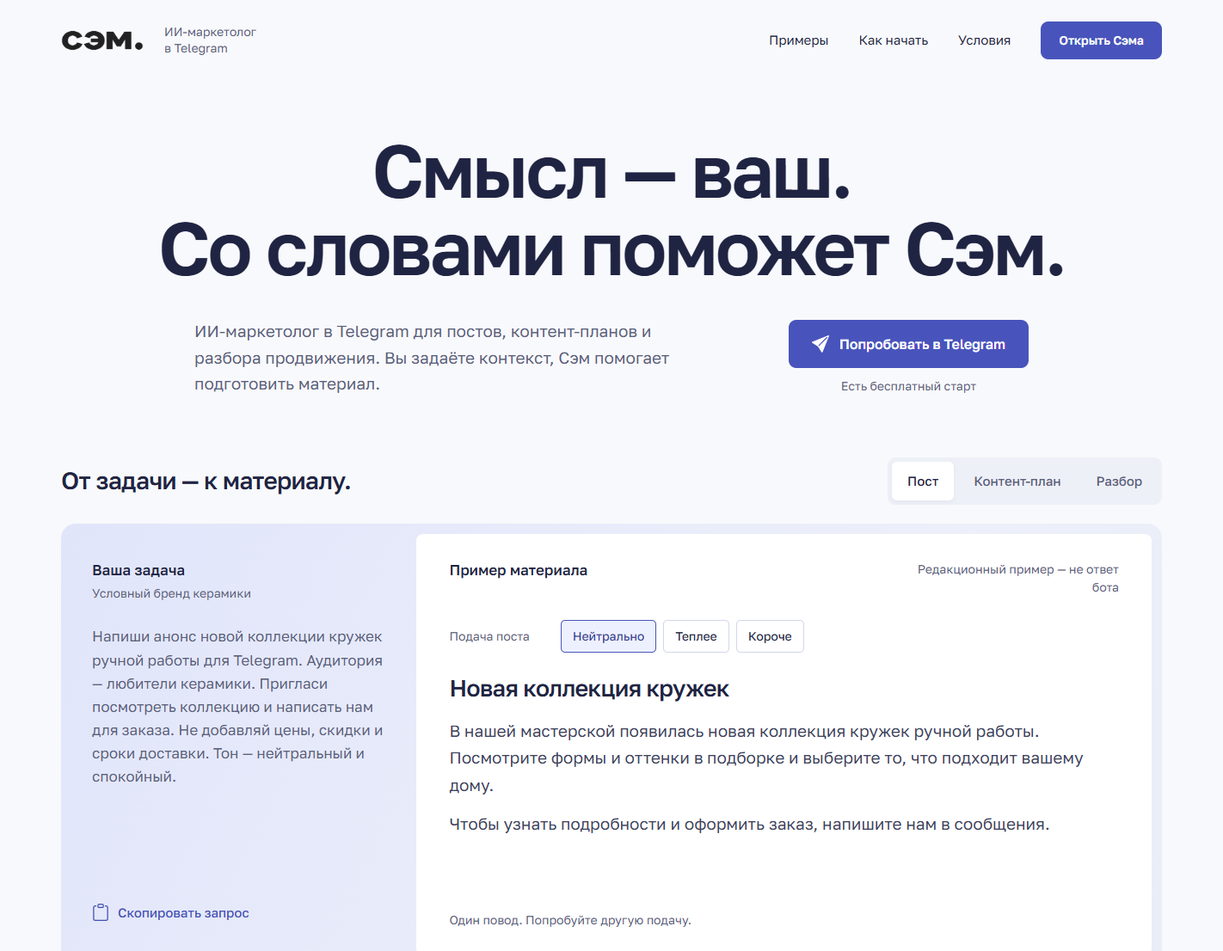
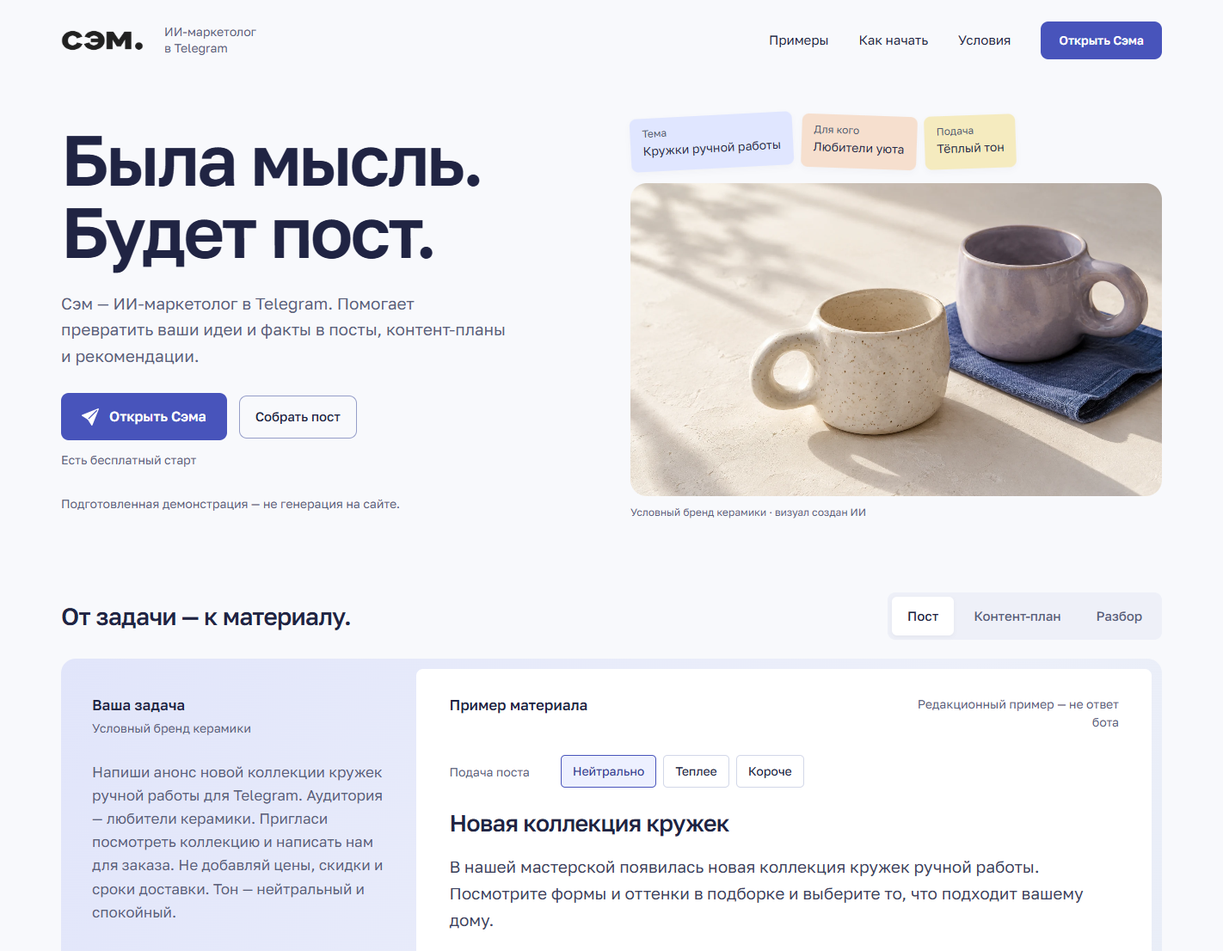
Bring Sam preview to life with contextual photo and assembly motion

diff --git a/dist/frontend-design/index.html b/dist/frontend-design/index.html
@@ -1,9 +1,9 @@
 <!doctype html>
 <html lang="ru">
-<head><meta charset="utf-8"><meta name="viewport" content="width=device-width,initial-scale=1,viewport-fit=cover"><title>Сэм — смысл ваш, со словами поможем</title><meta name="description" content="ИИ-маркетолог в Telegram. Посты, контент-планы и разбор продвижения на основе вашей задачи."><meta name="robots" content="noindex, follow"><meta name="theme-color" content="#f8f9fc"><link rel="canonical" href="https://marketolog-sam.ru/"><link rel="icon" href="../images/favicon-32.png" sizes="32x32"><link rel="preload" href="fonts/golos-text.ttf" as="font" type="font/ttf" crossorigin><link rel="stylesheet" href="styles.css"><script src="../site-config.js" defer></script><script src="script.js" defer></script></head>
+<head><meta charset="utf-8"><meta name="viewport" content="width=device-width,initial-scale=1,viewport-fit=cover"><title>Сэм — от вашей мысли до первого поста</title><meta name="description" content="ИИ-маркетолог в Telegram. Посты, контент-планы и разбор продвижения на основе вашей задачи."><meta name="robots" content="noindex, follow"><meta name="theme-color" content="#f8f9fc"><link rel="canonical" href="https://marketolog-sam.ru/"><link rel="icon" href="../images/favicon-32.png" sizes="32x32"><link rel="preload" href="fonts/golos-text.ttf" as="font" type="font/ttf" crossorigin><link rel="stylesheet" href="styles.css?v=living-1"><script src="../site-config.js" defer></script><script src="script.js?v=living-1" defer></script></head>
 <body id="top"><a class="skip-link" href="#main-content">Перейти к содержимому</a>
 <header class="header"><div class="shell header-inner"><a class="brand" href="#top" aria-label="Сэм — на главную"><img class="wordmark" src="../assets/plates/brand.png" width="96" height="30" alt="Сэм"></a><span class="brand-description">ИИ-маркетолог<br>в Telegram</span><button class="menu-toggle" id="navToggle" type="button" aria-expanded="false" aria-controls="primaryNav" aria-label="Открыть меню"><img class="icon" src="../icons/list.svg" width="20" height="20" alt=""></button><nav id="primaryNav" aria-label="Основная навигация"><a href="#examples">Примеры</a><a href="#how-it-works">Как начать</a><a href="#pricing">Условия</a><a class="button button--primary js-open-bot button--small" data-placement="frontend-header" href="https://t.me/smm_platform_sam_bot?start=landing" target="_blank" rel="noopener noreferrer"><span>Открыть Сэма</span></a></nav></div></header>
-<main id="main-content"><section class="hero shell" id="hero" aria-labelledby="hero-title"><h1 id="hero-title"><span>Смысл — ваш.</span><span>Со словами поможет Сэм.</span></h1><div class="hero-bottom"><p class="lead">ИИ-маркетолог в Telegram для постов, контент-планов и разбора продвижения. Вы задаёте контекст, Сэм помогает подготовить материал.</p><div class="hero-actions"><a class="button button--primary js-open-bot " data-placement="frontend-hero" href="https://t.me/smm_platform_sam_bot?start=landing" target="_blank" rel="noopener noreferrer"><img class="icon" src="../icons/send-fill.svg" width="20" height="20" alt=""><span>Попробовать в Telegram</span></a><p>Есть бесплатный старт</p></div></div></section>
+<main id="main-content"><section class="hero shell hero--living" id="hero" aria-labelledby="hero-title"><div class="hero-grid"><div class="hero-copy"><h1 id="hero-title"><span>Была мысль.</span><span>Будет пост.</span></h1><p class="lead">Сэм — ИИ-маркетолог в Telegram. Помогает превратить ваши идеи и факты в посты, контент-планы и рекомендации.</p><div class="hero-actions"><a class="button button--primary js-open-bot" data-placement="frontend-hero" href="https://t.me/smm_platform_sam_bot?start=landing" target="_blank" rel="noopener noreferrer" aria-label="Открыть Сэма в Telegram"><img class="icon" src="../icons/send-fill.svg" width="20" height="20" alt=""><span>Открыть Сэма</span></a><button class="assemble-button" id="assemble-post" type="button" aria-expanded="false" aria-controls="assembled-post">Собрать пост</button></div><p class="hero-assurance">Есть бесплатный старт</p><p class="hero-scene-note">Подготовленная демонстрация — не генерация на сайте.</p></div><div class="brief-scene" id="brief-scene"><ul class="source-facts" aria-label="Детали запроса"><li class="source-topic" data-source="topic"><span>Тема</span>Кружки ручной работы</li><li class="source-audience" data-source="audience"><span>Для кого</span>Любители уюта</li><li class="source-voice" data-source="voice"><span>Подача</span>Тёплый тон</li></ul><figure class="scene-photo"><img id="ceramics-scene" src="images/ceramics-editorial.webp" width="1536" height="1024" alt="Две кружки ручной работы, белая и лавандовая, на светлом столе с синей льняной тканью. Визуал создан ИИ для условного бренда." fetchpriority="high"><figcaption>Условный бренд керамики · визуал создан ИИ</figcaption></figure><article class="assembly-post" id="assembled-post" aria-labelledby="assembled-title" hidden><h2 id="assembled-title">Кружка для вашего утра</h2><p>Новая <mark data-source="topic">коллекция кружек ручной работы</mark> — <mark data-source="audience">для уютных утренних ритуалов</mark>.</p><p><mark data-source="voice">Приглянулась одна?</mark> Напишите нам, чтобы узнать подробности и заказать.</p><p class="assembly-provenance">Редакционный пример — не ответ бота</p></article><p class="scene-status sr-only" id="assembly-status" role="status"></p></div></div></section>
 <section class="demo shell" id="examples" aria-labelledby="examples-title"><div class="demo-top"><h2 id="examples-title">От задачи — к материалу.</h2><div class="demo-tabs" role="tablist" aria-label="Примеры задач"><button id="tab-post" role="tab" aria-selected="true" aria-controls="demo-panel" data-example="post" type="button">Пост</button><button id="tab-plan" role="tab" aria-selected="false" aria-controls="demo-panel" data-example="plan" tabindex="-1" type="button">Контент-план</button><button id="tab-audit" role="tab" aria-selected="false" aria-controls="demo-panel" data-example="audit" tabindex="-1" type="button">Разбор</button></div></div><div class="working-field"><div id="demo-panel" class="demo-panel" role="tabpanel" aria-labelledby="tab-post" tabindex="0"><div class="request-column"><div><h3>Ваша задача</h3><p class="sample-business">Условный бренд керамики</p></div><p id="demo-prompt">Напиши анонс новой коллекции кружек ручной работы для Telegram. Аудитория — любители керамики. Пригласи посмотреть коллекцию и написать нам для заказа. Не добавляй цены, скидки и сроки доставки. Тон — нейтральный и спокойный.</p><button id="copy-prompt" class="copy-button" type="button"><img class="icon" src="../icons/clipboard.svg" width="20" height="20" alt=""><span>Скопировать запрос</span></button><p class="copy-status" role="status"></p></div><div class="result-column"><div class="result-heading"><h3>Пример материала</h3><p>Редакционный пример — не ответ бота</p></div><fieldset class="tone-controls" id="tone-controls"><legend>Подача поста</legend><div><button type="button" data-tone="neutral" aria-pressed="true">Нейтрально</button><button type="button" data-tone="warm" aria-pressed="false">Теплее</button><button type="button" data-tone="short" aria-pressed="false">Короче</button></div></fieldset><div class="result-surface" id="demo-output"><h3>Новая коллекция кружек</h3><p>В нашей мастерской появилась новая коллекция кружек ручной работы. Посмотрите формы и оттенки в подборке и выберите то, что подходит вашему дому.</p><p>Чтобы узнать подробности и оформить заказ, напишите нам в сообщения.</p></div><p class="tone-note" id="tone-note">Один повод. Попробуйте другую подачу.</p></div></div></div><p class="demo-disclosure">Это подготовленные варианты для сравнения. Сэм работает с вашим запросом в Telegram.</p><p id="demo-status" class="sr-only" role="status"></p></section>
 <section class="capabilities shell" id="content" aria-labelledby="content-title"><div class="section-intro"><h2 id="content-title">Когда нужно<br>с чего-то начать.</h2><p>Не обязательно приходить с готовым текстом.<br>Достаточно задачи и нескольких деталей о вашем деле.</p></div><div class="task-list"><button type="button" data-show-example="post"><span>Написать пост</span><small>Тема, аудитория и нужный тон.<br>Отредактируйте предложенный текст под себя.</small><span class="task-action">Смотреть пример</span></button><button type="button" data-show-example="plan"><span>Найти темы</span><small>Цель, формат и период.<br>Получите отправную точку для контент-плана.</small><span class="task-action">Смотреть пример</span></button><button type="button" data-show-example="audit"><span>Разобраться с продвижением</span><small>Ссылка и контекст.<br>Посмотрите, что можно уточнить и улучшить.</small><span class="task-action">Смотреть пример</span></button></div></section>
 <section class="how section shell" id="how-it-works" aria-labelledby="how-title"><div class="section-intro"><h2 id="how-title">Всё происходит в Telegram.</h2><p>На телефоне или компьютере.<br>Без отдельного приложения для Сэма.</p></div><ol class="how-list"><li><h3>Откройте Сэма</h3><p>Перейдите в Telegram и нажмите «Начать». Выберите подходящий инструмент в меню бота.</p></li><li><h3>Добавьте контекст</h3><p>Расскажите о бизнесе, аудитории и цели. Укажите факты, формат и тон, которые нужно сохранить.</p></li><li><h3>Доработайте материал</h3><p>Проверьте факты и рекомендации. Добавьте свой опыт, отредактируйте текст и используйте его в работе.</p></li></ol><details class="interface-preview"><summary>Посмотреть настоящее меню бота <img class="icon" src="../icons/arrow-right.svg" width="20" height="20" alt=""></summary><div class="screenshots"><button class="screenshot-card" type="button" data-full-image="../images/bot-screen-1.png" data-image-alt="Настоящее меню бота Сэм в Telegram"><img src="../images/bot-screen-1.png" width="418" height="1080" loading="lazy" alt="Настоящее меню бота Сэм в Telegram"><span>Главное меню · увеличить</span></button><button class="screenshot-card" type="button" data-full-image="../images/bot-screen-2.png" data-image-alt="Раздел инструментов бота Сэм в Telegram"><img src="../images/bot-screen-2.png" width="418" height="1080" loading="lazy" alt="Раздел инструментов бота Сэм в Telegram"><span>Инструменты · увеличить</span></button></div></details></section><section class="terms section" id="pricing" aria-labelledby="pricing-title"><div class="shell terms-grid"><div><h2 id="pricing-title">Начните с одной задачи.</h2><p>У Сэма есть бесплатный старт. Посмотрите доступные инструменты и попробуйте на своём проекте.</p><a class="button button--primary js-open-bot" data-placement="pricing" href="https://t.me/smm_platform_sam_bot?start=landing" target="_blank" rel="noopener noreferrer"><img class="icon" src="../icons/send-fill.svg" width="20" height="20" alt=""><span>Попробовать в Telegram</span></a></div><div id="pricing-content"><h3>Условия — прямо в боте</h3><p>Актуальные цены, лимиты и условия продления проверьте в разделе тарифов перед оплатой.</p><a class="text-link js-open-bot" data-placement="tariffs" href="https://t.me/smm_platform_sam_bot?start=cmd_run_3318292060" target="_blank" rel="noopener noreferrer">Открыть тарифы <img class="icon" src="../icons/arrow-right.svg" width="20" height="20" alt=""></a><p class="terms-links"><a href="../offer.html#o4">Оплата и возврат</a><a href="../privacy.html">Обработка данных</a></p></div></div></section><section class="faq section shell" id="faq" aria-labelledby="faq-title"><div class="faq-grid"><h2 id="faq-title">О Сэме и доступе.</h2><div class="faq-list"><details class="faq-item"><summary>Как начать и что бесплатно?</summary><p>Откройте бота в Telegram и нажмите «Начать». Бесплатный старт предусмотрен; актуальное количество запросов и доступные инструменты проверяйте в разделе тарифов. <a href="#pricing">Перейти к условиям</a>.</p></details><details class="faq-item"><summary>Как получить более полезный результат?</summary><p>Опишите нишу, аудиторию, цель и формат. Для текста укажите тон и факты, которые нужно использовать. Для разбора страницы приложите ссылку и контекст. Проверьте рекомендации и факты перед применением.</p></details><details class="faq-item"><summary>Что происходит с моими данными?</summary><p>Согласно <a href="../privacy.html#s2">политике конфиденциальности</a>, сервис может обрабатывать ваш Telegram-идентификатор и сообщения для работы бота; в обработке участвуют Telegram и поставщики инфраструктуры. <a href="../privacy.html#s7">Сроки хранения</a> и <a href="../privacy.html#s9">порядок отзыва согласия</a> описаны в политике. Для запроса об удалении данных напишите <a href="mailto:support.marketolog.sam@gmail.com?subject=Запрос%20об%20удалении%20данных">в поддержку</a>.</p></details><details class="faq-item"><summary>Как прекратить платный доступ или запросить возврат?</summary><p>Вопросы управления тарифом решаются в боте. Условия оплаты и возврата приведены в <a href="../offer.html#o4">оферте</a>. Для отказа от оплаченного тарифа или запроса возврата обратитесь в <a href="mailto:support.marketolog.sam@gmail.com?subject=Вопрос%20по%20платному%20доступу">поддержку</a>. Условия продления выбранного тарифа проверьте до оплаты.</p></details><details class="faq-item"><summary>Нужна отдельная установка?</summary><p>Нет, достаточно Telegram на телефоне или компьютере. Сайт откроет страницу <a href="https://t.me/smm_platform_sam_bot" target="_blank" rel="noopener noreferrer">@smm_platform_sam_bot</a>, где нужно нажать «Начать».</p></details><details class="faq-item"><summary>Сэм заменит маркетолога?</summary><p>Он помогает подготовить материалы и рекомендации. Вы определяете стратегию, проверяете точность результата и решаете, как использовать его в своём бизнесе.</p></details><details class="faq-item"><summary>Telegram не открылся или бот не отвечает?</summary><p>Попробуйте открыть <a href="https://t.me/smm_platform_sam_bot" target="_blank" rel="noopener noreferrer">прямую ссылку на бота</a> или найдите @smm_platform_sam_bot в Telegram. Если бот не отвечает, повторите запрос позже. При повторной ошибке напишите в <a href="mailto:support.marketolog.sam@gmail.com">поддержку</a>.</p></details></div></div></section><section class="final section" aria-labelledby="final-title"><div class="shell final-inner"><h2 id="final-title">Начните с того,<br>что хотите сказать.</h2><div><p>Расскажите Сэму о своём деле и первой задаче.</p><a class="button button--primary js-open-bot " data-placement="frontend-final" href="https://t.me/smm_platform_sam_bot?start=landing" target="_blank" rel="noopener noreferrer"><img class="icon" src="../icons/send-fill.svg" width="20" height="20" alt=""><span>Попробовать в Telegram</span></a></div></div></section></main>

diff --git a/dist/frontend-design/styles.css b/dist/frontend-design/styles.css
@@ -278,3 +278,44 @@ h2{font-size:35px;line-height:1.12}
 }
 
 .result-heading p{font-size:14px}@media(max-width:760px){.brand-description{font-size:14px}.tone-controls button{font-size:14px}}@media(max-width:360px){.tone-controls button{font-size:14px;padding-inline:8px}}
+
+/* One physical scene explains the editorial transformation. */
+.hero--living{padding-top:40px;padding-bottom:58px}
+.hero-grid{display:grid;grid-template-columns:1fr 1.08fr;gap:7%;align-items:center}
+.hero--living h1{text-align:left;font-size:clamp(58px,5.8vw,84px);line-height:1.02;letter-spacing:-.035em}
+.hero--living h1 span{display:block}
+.hero--living .lead{margin-top:27px;font-size:19px;line-height:1.6;max-width:44ch}
+.hero--living .hero-actions{display:flex;gap:14px;align-items:center;margin-top:28px;flex-wrap:wrap}
+.hero--living .hero-actions>.button{min-height:54px;padding-inline:23px}
+.assemble-button{min-height:50px;border:1px solid #959dc8;background:transparent;border-radius:9px;padding:13px 18px;font-size:15px;font-weight:500;line-height:1.3;transition:background .18s,border-color .18s}
+.assemble-button:hover{background:#e8ebfa;border-color:var(--action)}
+.hero-assurance{font-size:14px;margin-top:12px}
+.hero-scene-note{font-size:14px;line-height:1.55;max-width:47ch;margin-top:29px}
+.brief-scene{position:relative;min-width:0;align-self:center}
+.source-facts{display:flex;align-items:flex-start;flex-wrap:wrap;gap:10px;list-style:none;padding:0;margin:0 0 17px}
+.source-facts li{display:flex;flex-direction:column;gap:3px;min-height:62px;padding:10px 14px;border-radius:8px;font-size:14px;line-height:1.35;color:#292d49;box-shadow:0 3px 7px #22264408}
+.source-facts li>span{font-size:12px;color:#535a71}
+.source-topic{background:#e0e6ff;transform:rotate(-3deg)}
+.source-audience{background:#f6dfce;transform:rotate(2deg)}
+.source-voice{background:#f5ebbf;transform:rotate(-2deg)}
+.scene-photo{margin:0;position:relative}
+.scene-photo>img{display:block;width:100%;height:364px;object-fit:cover;border-radius:19px;transition:filter .4s,opacity .4s}
+.scene-photo>figcaption{font-size:12px;line-height:1.5;margin-top:10px;color:var(--muted)}
+.assembly-post{position:absolute;left:22px;right:22px;bottom:48px;background:#fff;padding:25px 28px;border-radius:12px;box-shadow:0 14px 38px #20244326}
+.assembly-post h2{font-size:26px;font-weight:550;line-height:1.2;letter-spacing:-.02em;margin-bottom:16px}
+.assembly-post>p{font-size:17px;line-height:1.6;color:#40465f;margin-top:12px}
+.assembly-post mark{padding:1px 3px;border-radius:3px;color:var(--ink);box-decoration-break:clone;-webkit-box-decoration-break:clone}
+.assembly-post mark[data-source=topic]{background:#e0e6ff}
+.assembly-post mark[data-source=audience]{background:#f6dfce}
+.assembly-post mark[data-source=voice]{background:#f5ebbf}
+.assembly-post>.assembly-provenance{font-size:12px;line-height:1.5;color:var(--muted);margin-top:18px}
+.brief-scene.is-assembled .scene-photo>img{filter:saturate(.7);opacity:.62}
+.source-flight{position:fixed!important;z-index:40;pointer-events:none;list-style:none;margin:0;box-sizing:border-box;font-family:Golos,sans-serif;transform:none;box-shadow:0 6px 24px #20244316;border-radius:8px;color:#292d49;display:flex;flex-direction:column;gap:3px;padding:10px 14px;font-size:14px;line-height:1.35}
+.source-flight>span{font-size:12px;color:#535a71}
+.demo{margin-top:26px}
+@media(min-width:1600px){.scene-photo>img{height:390px}}
+@media(max-width:1100px){.hero-grid{gap:5%;grid-template-columns:1fr 1fr}.hero--living{padding-top:30px}.hero--living h1{font-size:6.1vw}.hero--living .lead{font-size:18px}.hero--living .hero-actions{gap:12px}.hero--living .hero-actions>.button{padding-inline:20px}.assemble-button{padding-inline:15px}.source-facts{gap:8px}.source-facts li{padding:9px 10px;font-size:13px}.source-facts li>span{font-size:12px}.scene-photo>img{height:350px}.assembly-post{left:12px;right:12px;padding:22px;bottom:45px}.assembly-post h2{font-size:24px}.assembly-post>p{font-size:16px}.hero-scene-note{margin-top:23px}}
+@media(max-width:760px){.hero--living{padding-top:28px;padding-bottom:36px}.hero-grid{grid-template-columns:1fr;gap:28px}.hero--living h1{font-size:clamp(44px,9.7vw,64px);line-height:1.02}.hero--living h1 span:first-child{margin-bottom:0}.hero--living .lead{font-size:17px;line-height:1.55;margin-top:22px;max-width:48ch}.hero--living .hero-actions{margin-top:23px;gap:11px}.hero--living .hero-actions>.button{font-size:15px;padding:14px 18px;min-height:50px;gap:9px}.hero--living .hero-actions>.button .icon{width:18px;height:18px}.assemble-button{font-size:14px;min-height:50px;padding:14px 14px}.hero-assurance{margin-top:11px;font-size:14px}.hero-scene-note{margin-top:19px;font-size:14px;max-width:44ch}.source-facts{gap:8px;margin-bottom:16px}.source-facts li{font-size:13px;padding:9px 10px;min-height:59px}.source-facts li>span{font-size:12px}.scene-photo>img{height:288px;border-radius:13px}.scene-photo>figcaption{font-size:12px;margin-top:9px}.assembly-post{left:10px;right:10px;bottom:43px;padding:21px 20px;border-radius:10px}.assembly-post h2{font-size:23px;margin-bottom:12px}.assembly-post>p{font-size:15px;line-height:1.55;margin-top:10px}.assembly-post>.assembly-provenance{font-size:12px;margin-top:13px}.demo{margin-top:14px}}
+@media(max-width:360px){.hero--living .hero-actions{gap:9px}.hero--living .hero-actions>.button{padding-inline:14px;font-size:14px}.assemble-button{padding-inline:11px;font-size:13px}.source-facts li{font-size:12px;padding-inline:9px}.source-facts{gap:6px}.scene-photo>img{height:300px}.assembly-post{padding:20px 16px;bottom:40px}.assembly-post h2{font-size:22px}.assembly-post>p{font-size:15px}}
+
+@media(max-width:760px){.scene-photo>img{height:340px}}

diff --git a/dist/frontend-design/script.js b/dist/frontend-design/script.js
@@ -68,7 +68,37 @@ document.querySelectorAll('[data-tone]').forEach(button=>button.addEventListener
 tabs.forEach((tab,i)=>{tab.addEventListener('click',()=>{example=tab.dataset.example;render()});tab.addEventListener('keydown',e=>{if(e.ctrlKey||e.metaKey||e.altKey)return;let next;if(e.key==='ArrowRight')next=(i+1)%tabs.length;if(e.key==='ArrowLeft')next=(i+tabs.length-1)%tabs.length;if(e.key==='Home')next=0;if(e.key==='End')next=tabs.length-1;if(next!==undefined){e.preventDefault();tabs[next].focus();tabs[next].click()}})});
 document.querySelectorAll('[data-show-example]').forEach(button=>button.addEventListener('click',()=>{example=button.dataset.showExample;render();document.getElementById('examples').scrollIntoView({block:'start',behavior:reduced.matches?'auto':'smooth'});tabs.find(t=>t.dataset.example===example).focus({preventScroll:true})}));
 document.getElementById('copy-prompt')?.addEventListener('click',async()=>{const text=currentPrompt();const status=document.querySelector('.copy-status');try{await navigator.clipboard.writeText(text);status.textContent='Скопировано. Вставьте запрос в чат с Сэмом.'}catch{status.textContent='Не удалось скопировать автоматически. Выделите запрос выше и скопируйте его.';const range=document.createRange();range.selectNodeContents(document.getElementById('demo-prompt'));const selection=window.getSelection();selection.removeAllRanges();selection.addRange(range)}});
-if(!reduced.matches){(document.fonts?.ready||Promise.resolve()).then(()=>requestAnimationFrame(()=>{animateElement(document.querySelector('.working-field'),[{opacity:.75,clipPath:'inset(0 0 12% 0 round 17px)'},{opacity:1,clipPath:'inset(0 0 0% 0 round 17px)'}],{duration:680})}))}
+
+// This interaction composes a prepared editorial example; it never calls an AI service.
+const assembleButton=document.getElementById('assemble-post');
+const scene=document.getElementById('brief-scene');
+const assembledPost=document.getElementById('assembled-post');
+const flights=new Set();
+let assembled=false;
+function clearFlights(){for(const flight of flights){flight.getAnimations().forEach(a=>a.cancel());flight.remove()}flights.clear()}
+assembleButton?.addEventListener('click',()=>{
+ clearFlights();assembled=!assembled;
+ assembleButton.setAttribute('aria-expanded',String(assembled));
+ assembleButton.textContent=assembled?'Разобрать пост':'Собрать пост';
+ scene.classList.toggle('is-assembled',assembled);
+ assembledPost.hidden=!assembled;
+ document.getElementById('assembly-status').textContent=assembled?'Показан подготовленный пример. Цвет связывает детали запроса с фразами поста.':'Пример разобран. Снова видны исходные детали и предметный кадр.';
+ if(!assembled)return;
+ animateElement(assembledPost,[{opacity:.35,transform:'translateY(12px)'},{opacity:1,transform:'translateY(0)'}],{duration:520,delay:140,fill:'backwards'});
+ if(!reduced.matches){
+  [...scene.querySelectorAll('.source-facts [data-source]')].forEach((source,index)=>{
+   const target=assembledPost.querySelector('mark[data-source="'+source.dataset.source+'"]');
+   const from=source.getBoundingClientRect(),to=target.getBoundingClientRect();
+   const flight=source.cloneNode(true);flight.classList.add('source-flight');flight.setAttribute('aria-hidden','true');flight.removeAttribute('data-source');
+   Object.assign(flight.style,{left:from.left+'px',top:from.top+'px',width:from.width+'px',minHeight:from.height+'px'});
+   document.body.append(flight);flights.add(flight);
+   const animation=flight.animate([{transform:'translate(0,0) scale(1)',opacity:.95},{transform:'translate('+(to.left-from.left)+'px,'+(to.top-from.top)+'px) scale(.55)',opacity:0}],{duration:560,delay:index*65,easing:'cubic-bezier(.16,1,.3,1)',fill:'both'});
+   animation.finished.catch(()=>{}).finally(()=>{flight.remove();flights.delete(flight)});
+  });
+ }
+});
+if(!reduced.matches){(document.fonts?.ready||Promise.resolve()).then(()=>requestAnimationFrame(()=>{animateElement(document.querySelector('.scene-photo>img'),[{opacity:.7,clipPath:'inset(2% 0 2% 0 round 19px)'},{opacity:1,clipPath:'inset(0 0 0 0 round 19px)'}],{duration:660})}))}
+
 // Animate the real details element so native links and keyboard behavior remain intact.
 const detailsTargets = new WeakMap();
 document.querySelectorAll('.faq-item').forEach(details => {

diff --git a/qa/check_frontend.py b/qa/check_frontend.py
@@ -39,11 +39,26 @@ try:
   check('One main and one H1',page.locator('main').count()==1 and page.locator('h1').count()==1)
   check('Golos font loaded',page.evaluate("document.fonts.check('600 88px Golos')"))
   check('Three simple demo tabs',page.get_by_role('tab').count()==3 and page.locator('[data-stage]').count()==0)
+  check('Hero has contextual image',page.locator('#ceramics-scene').evaluate('e=>e.complete&&e.naturalWidth>0'))
+  check('Hero photo labelled generated',page.locator('.scene-photo figcaption').inner_text().find('создан ИИ')>=0)
+  check('Three source facts',page.locator('.source-facts [data-source]').count()==3)
+  check('Prepared hero result starts hidden',not page.locator('#assembled-post').is_visible())
+
   direction=json.loads((ROOT/'qa/fixtures/frontend-direction.json').read_text(encoding='utf-8'))
   for name,digest in direction['mainBaseline'].items():check('Main version preserved: '+name,hashlib.sha256((D/name).read_bytes()).hexdigest()==digest)
 
   for width,height in [(320,800),(360,800),(390,844),(457,572),(768,1024),(1024,900),(1280,1000),(1422,1106),(1440,1120),(1600,1200)]:
    page.set_viewport_size({'width':width,'height':height});page.goto(base,wait_until='networkidle');page.evaluate('document.fonts.ready')
+
+   page.locator('#assemble-post').click()
+   check(f'{width}px assembled result opens',page.locator('#assemble-post').get_attribute('aria-expanded')=='true' and page.locator('#assembled-post').is_visible())
+   check(f'{width}px all source meanings appear',page.locator('#assembled-post mark[data-source]').count()==3)
+   check(f'{width}px assembled fits',page.evaluate('document.documentElement.scrollWidth<=innerWidth+1'))
+   check(f'{width}px source facts stay clear',page.evaluate("document.querySelector('#assembled-post').getBoundingClientRect().top>=document.querySelector('.source-facts').getBoundingClientRect().bottom-2"))
+   if width in [390,1440]:
+    page.evaluate('scrollTo(0,0)');page.screenshot(path=str(OUT/f'assembled-{width}.png'))
+   page.locator('#assemble-post').click()
+   check(f'{width}px assembly resets',not page.locator('#assembled-post').is_visible())
    for example in ['post','plan','audit']:
     page.locator('#tab-'+example).click()
     check(f'{width}px {example} no horizontal overflow',page.evaluate('document.documentElement.scrollWidth<=innerWidth+1'))
@@ -94,6 +109,17 @@ try:
   mp.locator('#tab-plan').click();check('Tab change animates',mp.evaluate('document.getAnimations().some(a=>a.playState==="running")'))
   mp.evaluate("""()=>{window.motionPreferenceResult=new Promise(resolve=>{matchMedia('(prefers-reduced-motion: reduce)').addEventListener('change',()=>queueMicrotask(()=>resolve(document.getAnimations().filter(a=>a.playState==='running').length)),{once:true})})}""")
   mp.emulate_media(reduced_motion='reduce');check('Live motion preference stops animation',mp.evaluate('window.motionPreferenceResult')==0)
+
+  mp.emulate_media(reduced_motion='no-preference');mp.wait_for_timeout(50)
+  mp.locator('#assemble-post').click();mp.wait_for_timeout(180)
+  check('Source fragments animate',mp.locator('.source-flight').count()>0)
+  check('Source fragments actually move',mp.evaluate("[...document.querySelectorAll('.source-flight')].some(e=>getComputedStyle(e).transform!=='none')"))
+  mp.wait_for_timeout(700);check('Flying fragments removed after arrival',mp.locator('.source-flight').count()==0)
+  mp.locator('#assemble-post').click();mp.locator('#assemble-post').click();mp.locator('#assemble-post').click()
+  check('Rapid reset hides result',not mp.locator('#assembled-post').is_visible())
+  check('Rapid reset leaves no fragments',mp.locator('.source-flight').count()==0)
+  mp.emulate_media(reduced_motion='reduce');mp.wait_for_timeout(80);mp.locator('#assemble-post').click()
+  check('Reduced motion assembles immediately',mp.locator('#assembled-post').is_visible() and mp.locator('.source-flight').count()==0)
   check('No script errors',not results['errors']);check('No failed local resources',not results['failedResources'])
   browser.close()
 finally:

diff --git a/README.md b/README.md
@@ -43,4 +43,11 @@ GitHub Pages публикует только `dist/` через workflow. Ори
 
 Применён официальный skill `anthropics/skills/skills/frontend-design`: светлый фон, чернильный индиго, локальный Golos Text, крупная типографика и сравнение трёх редакционных подач одного поста. При выборе подачи меняются материал и копируемый запрос; имитации онлайн-генерации нет. Остальные сценарии, настоящие изображения бота, условия, юридические ссылки и выбор аналитики сохранены.
 
-План и его проверка до реализации: `qa/fixtures/frontend-direction.json`. Проверка: `python qa/check_frontend.py` (те же зависимости и переменные окружения, что у основной проверки). 207/207 проверок на десяти ширинах, без ошибок JavaScript и загрузки ресурсов. Основные файлы прежней версии сверяются с сохранёнными хешами. Снимки и результат — `qa/frontend/`; диагностические состояния — `qa/screenshots/frontend/`.
+План и его проверка до реализации: `qa/fixtures/frontend-direction.json`. Проверка: `python qa/check_frontend.py` (те же зависимости и переменные окружения, что у основной проверки). 267/267 проверок на десяти ширинах, без ошибок JavaScript и загрузки ресурсов. Основные файлы прежней версии сверяются с сохранёнными хешами. Снимки и результат — `qa/frontend/`; диагностические состояния — `qa/screenshots/frontend/`.
+
+
+### Предметная сцена и сборка поста
+
+Первый экран экспериментальной версии дополнен предметным кадром керамики и управляемой анимацией: детали запроса перемещаются к соответствующим выделениям в подготовленном посте. Кнопка позволяет собрать и разобрать пример; уменьшенное движение показывает результат сразу. Условный бренд, происхождение визуала и редакционный характер текста явно подписаны. Это демонстрация, а не запрос к ИИ из браузера.
+
+Визуал создан встроенным Imagegen и сохранён в dist/frontend-design/images/ceramics-editorial.webp. Точный промпт и происхождение: qa/fixtures/living-photo-provenance.json. Проверки дополнены сборкой, сбросом, связями фрагментов, повторными нажатиями, реальным движением и очисткой временных элементов. Сохранены исходное и собранное состояния в qa/frontend/.
